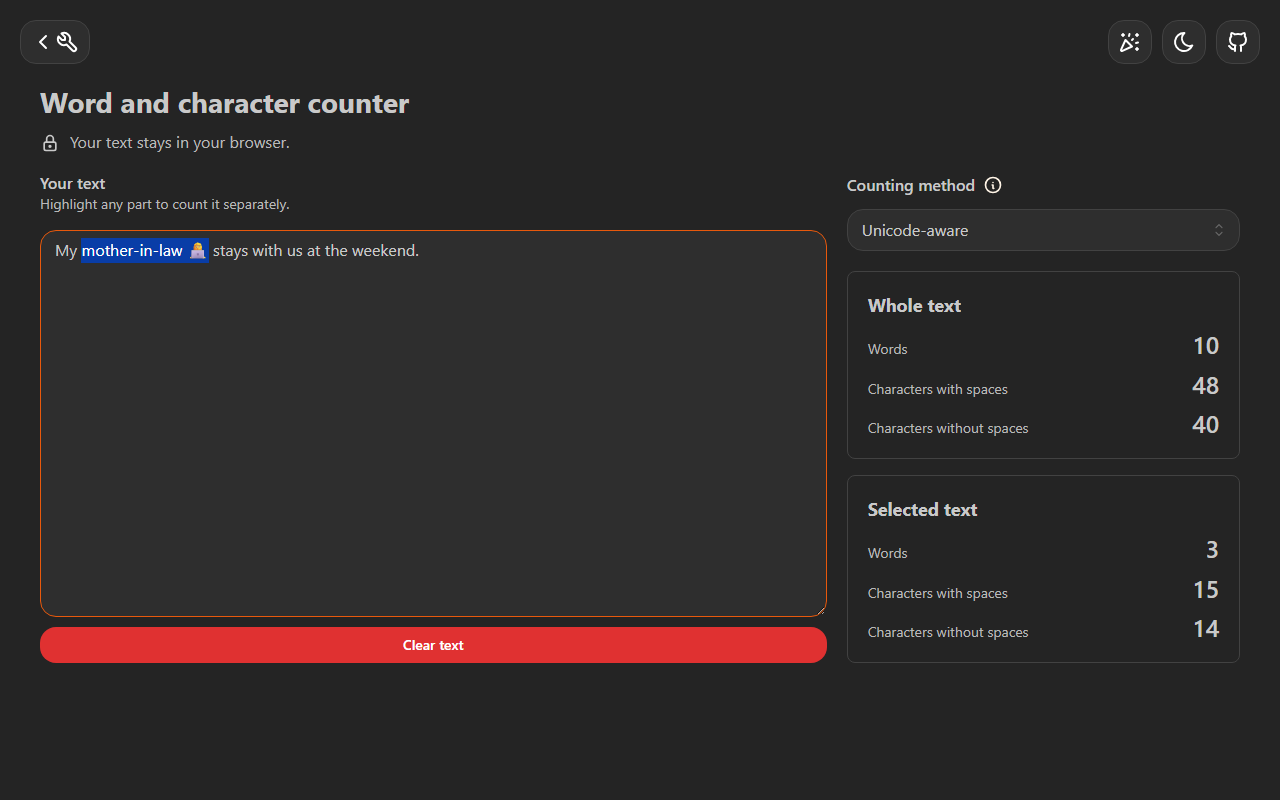
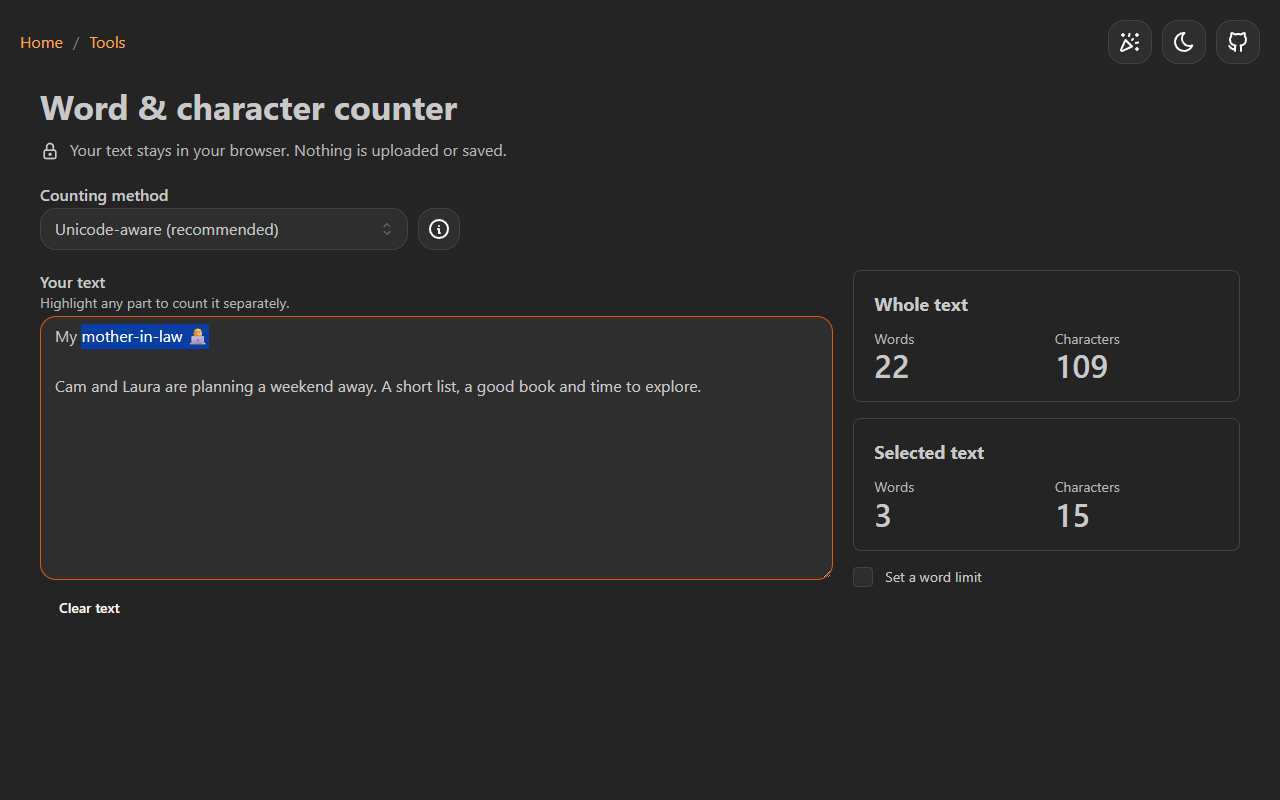
Add screenshots for PR 256

diff --git a/247/README.md b/247/README.md
@@ -5,4 +5,4 @@ Full-page screenshots of Unicode-aware counting with the same text and highlight
 - `word-counter-desktop-dark.png`: desktop Chrome in dark mode.
 - `word-counter-mobile-light.png`: iPhone 17 Safari in light mode.
 
-The highlighted passage is `mother-in-law 👩💻`. Its 3 words, 15 characters with spaces and 14 without appear alongside the whole-text counts.
+The highlighted passage is `mother-in-law 👩💻`. Its three words and 15 visible characters appear alongside the whole-text counts.
